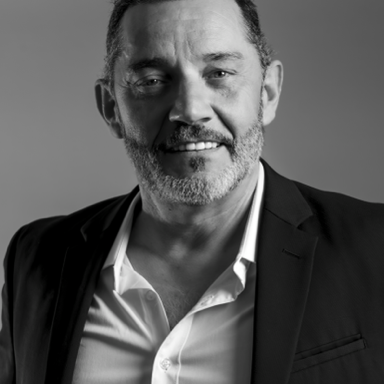
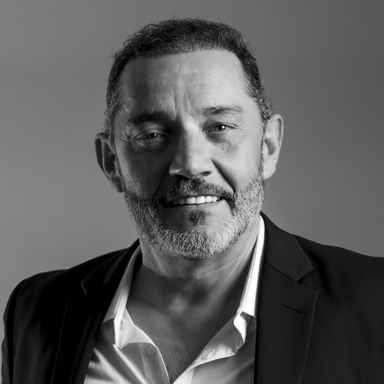
feat(sig): ajout Yann TDN + prénom en regular + photo Yann recadrée
- Nouvelle signature yann-tdn (Yann ROUXEL pour Tomber des Nues)
- Prénom passé de bold (800) à regular (400) sur toutes les signatures
- Photo Yann recadrée depuis Portrait Yann-5.jpg (crop haut)
- build.js: skip proprement les assets dont la source manque (dst conservé)

diff --git a/build.js b/build.js
@@ -63,6 +63,7 @@ const MEMBERS = [
   { id: 'sidonie',   brand: 'TDN', nom: 'Sidonie BRASSART', role: 'Assistante de projet',                    email: 'sidonie@tomberdesnues.com', tel: '+33 7 83 73 95 96', photoId: 'sidonie' },
   { id: 'alexandre', brand: 'PS',  nom: 'Alexandre BILLON', role: 'Directeur Associé',                       email: 'alexandre@pianoservice.fr', tel: '+33 6 80 44 73 52', photoId: 'alexandre' },
   { id: 'yann-ps',     brand: 'PS',  nom: 'Yann ROUXEL',      role: 'Directeur Général',                       email: 'yann@pianoservice.fr',      tel: '+33 6 27 42 78 20', photoId: 'yann' },
+  { id: 'yann-tdn',    brand: 'TDN', nom: 'Yann ROUXEL',      role: 'Directeur Général',                       email: 'yann@tomberdesnues.com',    tel: '+33 6 27 42 78 20', photoId: 'yann' },
   { id: 'justine-tdn', brand: 'TDN', nom: 'Justine',          role: 'Commerciale',                             email: 'justine@tomberdesnues.com', tel: '+33 6 11 48 94 37', photo: false },
   { id: 'justine-kp',  brand: 'KP',  nom: 'Justine',          role: 'Commerciale',                             email: 'justine@karreprod.com',     tel: '+33 6 11 48 94 37', photo: false },
   { id: 'justine-ps',  brand: 'PS',  nom: 'Justine',          role: 'Commerciale',                             email: 'justine@pianoservice.fr',   tel: '+33 6 11 48 94 37', photo: false }
@@ -99,6 +100,10 @@ async function buildPhotos() {
   for (const [id, num] of Object.entries(PHOTO_MAP)) {
     const src = path.join(SRC_DIR, `2025.12 Noe-l Karre-prod&Co-${num}.jpg`);
     const dst = path.join(ASSETS_DIR, `photo-${id}.png`);
+    if (!fs.existsSync(src)) {
+      if (fs.existsSync(dst)) { console.log(`  photo-${id}.png SKIP (source absente, dst conservé)`); continue; }
+      throw new Error(`Source manquante ET dst absent: ${src}`);
+    }
     await sharp(src)
       .rotate()
       .resize(SIZE, SIZE, { fit: 'cover', position: CROP_POSITION[id] || 'top' })
@@ -123,6 +128,16 @@ async function svgToPng(srcFile, dstFile, displayWidth) {
   const PAD = 14; // px de padding @1x sur chaque côté
   const innerWidth = Math.max(1, (displayWidth - PAD * 2) * 2);
   const srcPath = path.join(SRC_DIR, srcFile);
+
+  const dstPath = path.join(ASSETS_DIR, dstFile);
+  if (!fs.existsSync(srcPath)) {
+    if (fs.existsSync(dstPath)) {
+      const m = await sharp(dstPath).metadata();
+      console.log(`  ${dstFile} SKIP (source absente, dst conservé)`);
+      return { width: Math.round(m.width / 2), height: Math.round(m.height / 2) };
+    }
+    throw new Error(`Source manquante ET dst absent: ${srcPath}`);
+  }
 
   // Mesure de la hauteur intermédiaire pour verrouiller un PNG pair.
   // Sinon out.height impair → display height = round(h/2) → écart sub-pixel
@@ -159,26 +174,33 @@ async function buildLogos() {
 async function buildBadges() {
   const SIZE = 38;
   const dims = {};
-  // EcoVadis (carré)
-  await sharp(path.join(SRC_DIR, 'cert-ecovadis.svg'), { density: 600 })
-    .resize({ height: SIZE * 2, width: SIZE * 2, fit: 'contain', background: { r: 255, g: 255, b: 255, alpha: 0 } })
-    .png()
-    .toFile(path.join(ASSETS_DIR, 'cert-ecovadis.png'));
-  dims.ecovadis = { w: SIZE, h: SIZE };
 
-  // Label événement (JPG)
-  const labelOut = await sharp(path.join(SRC_DIR, 'Logo-Label-e1499678404115.jpg'))
-    .resize({ height: SIZE * 2 })
-    .toFormat('png')
-    .toFile(path.join(ASSETS_DIR, 'label-event.png'));
-  dims.label = { w: Math.round(labelOut.width / 2), h: SIZE };
+  async function badge(srcFile, dstFile, pipeline, fixedW = null) {
+    const srcPath = path.join(SRC_DIR, srcFile);
+    const dstPath = path.join(ASSETS_DIR, dstFile);
+    if (!fs.existsSync(srcPath)) {
+      if (fs.existsSync(dstPath)) {
+        const m = await sharp(dstPath).metadata();
+        console.log(`  ${dstFile} SKIP (source absente, dst conservé)`);
+        return { w: fixedW || Math.round(m.width / 2), h: SIZE };
+      }
+      throw new Error(`Source manquante ET dst absent: ${srcPath}`);
+    }
+    const out = await pipeline(srcPath, dstPath);
+    return { w: fixedW || Math.round(out.width / 2), h: SIZE };
+  }
 
-  // Synpase (PNG)
-  const synOut = await sharp(path.join(SRC_DIR, 'logo-synpase.png'))
-    .resize({ height: SIZE * 2 })
-    .png()
-    .toFile(path.join(ASSETS_DIR, 'logo-synpase.png'));
-  dims.synpase = { w: Math.round(synOut.width / 2), h: SIZE };
+  dims.ecovadis = await badge('cert-ecovadis.svg', 'cert-ecovadis.png',
+    (src, dst) => sharp(src, { density: 600 })
+      .resize({ height: SIZE * 2, width: SIZE * 2, fit: 'contain', background: { r: 255, g: 255, b: 255, alpha: 0 } })
+      .png().toFile(dst),
+    SIZE);
+
+  dims.label = await badge('Logo-Label-e1499678404115.jpg', 'label-event.png',
+    (src, dst) => sharp(src).resize({ height: SIZE * 2 }).toFormat('png').toFile(dst));
+
+  dims.synpase = await badge('logo-synpase.png', 'logo-synpase.png',
+    (src, dst) => sharp(src).resize({ height: SIZE * 2 }).png().toFile(dst));
 
   console.log('  badges PNG OK', dims);
   return dims;
@@ -255,7 +277,7 @@ function buildEditorial(m, brand, logoDims, badges) {
   <tr>
     ${photoBlock}
     <td valign="top" ${WHITE_CELL} style="padding:0 30px 0 0;${WHITE_STYLE}">
-      <div style="font-family:${titleFamily};font-size:26px;line-height:1.1;color:#0a0a0a;font-weight:800;letter-spacing:0.01em;">${nameHtml}</div>
+      <div style="font-family:${titleFamily};font-size:26px;line-height:1.1;color:#0a0a0a;font-weight:400;letter-spacing:0.01em;">${nameHtml}</div>
       <div style="font-family:Helvetica,Arial,sans-serif;font-size:11px;color:#4d4d4c;margin-top:10px;letter-spacing:0.22em;text-transform:uppercase;">${m.role}</div>
       <div style="height:18px;line-height:18px;font-size:0;">&nbsp;</div>
       <div style="font-size:13px;line-height:1.7;color:#1a1a1a;">

diff --git a/docs/signatures/yann-tdn.html b/docs/signatures/yann-tdn.html
@@ -5,7 +5,7 @@
 <meta name="viewport" content="width=device-width,initial-scale=1">
 <meta name="color-scheme" content="light only">
 <meta name="supported-color-schemes" content="light only">
-<title>Sonia ROUXEL — Tomber des Nues</title>
+<title>Yann ROUXEL — Tomber des Nues</title>
 <style>
   :root { color-scheme: light only; supported-color-schemes: light only; }
   body { color-scheme: light only; }
@@ -15,14 +15,14 @@
 <table cellpadding="0" cellspacing="0" border="0" role="presentation" width="620" bgcolor="#ffffff" style="border-collapse:collapse;width:620px;min-width:620px;margin-top:24px;background-color:#ffffff;color-scheme:light only;supported-color-schemes:light only;">
   <tr><td bgcolor="#ffffff" style="padding:20px 0 0;border-top:1px solid #ece6e0;background-color:#ffffff;"><table cellpadding="0" cellspacing="0" border="0" role="presentation" width="620" bgcolor="#ffffff" style="border-collapse:collapse;font-family:Helvetica,Arial,sans-serif;color:#1a1a1a;font-size:14px;line-height:1.45;width:620px;min-width:620px;table-layout:fixed;background-color:#ffffff;color-scheme:light only;supported-color-schemes:light only;">
   <tr>
-    <td valign="top" bgcolor="#ffffff" style="padding:0 26px 0 0;width:108px;min-width:108px;background-color:#ffffff;"><img src="https://morganrxl.github.io/signatures/assets/photo-sonia.png" width="96" height="96" alt="Sonia ROUXEL" style="display:block;border:0;outline:0;text-decoration:none;width:96px !important;height:96px !important;min-width:96px;max-width:96px;min-height:96px;max-height:96px;border-radius:96px;" /></td>
+    <td valign="top" bgcolor="#ffffff" style="padding:0 26px 0 0;width:108px;min-width:108px;background-color:#ffffff;"><img src="https://morganrxl.github.io/signatures/assets/photo-yann.png" width="96" height="96" alt="Yann ROUXEL" style="display:block;border:0;outline:0;text-decoration:none;width:96px !important;height:96px !important;min-width:96px;max-width:96px;min-height:96px;max-height:96px;border-radius:96px;" /></td>
     <td valign="top" bgcolor="#ffffff" style="padding:0 30px 0 0;background-color:#ffffff;">
-      <div style="font-family:'Avenir Next','Avenir',Helvetica,Arial,sans-serif;font-size:26px;line-height:1.1;color:#0a0a0a;font-weight:400;letter-spacing:0.01em;">Sonia <span style="font-weight:300;color:#1a1a1a;">ROUXEL</span></div>
-      <div style="font-family:Helvetica,Arial,sans-serif;font-size:11px;color:#4d4d4c;margin-top:10px;letter-spacing:0.22em;text-transform:uppercase;">Event Designer</div>
+      <div style="font-family:'Avenir Next','Avenir',Helvetica,Arial,sans-serif;font-size:26px;line-height:1.1;color:#0a0a0a;font-weight:400;letter-spacing:0.01em;">Yann <span style="font-weight:300;color:#1a1a1a;">ROUXEL</span></div>
+      <div style="font-family:Helvetica,Arial,sans-serif;font-size:11px;color:#4d4d4c;margin-top:10px;letter-spacing:0.22em;text-transform:uppercase;">Directeur Général</div>
       <div style="height:18px;line-height:18px;font-size:0;">&nbsp;</div>
       <div style="font-size:13px;line-height:1.7;color:#1a1a1a;">
-        <a href="mailto:sonia@tomberdesnues.com" style="color:#1a1a1a;text-decoration:none;border-bottom:1px solid #F6C9D0;">sonia@tomberdesnues.com</a><br/>
-        <a href="tel:+33603430776" style="color:#1a1a1a;text-decoration:none;">+33 6 03 43 07 76</a><br/>
+        <a href="mailto:yann@tomberdesnues.com" style="color:#1a1a1a;text-decoration:none;border-bottom:1px solid #F6C9D0;">yann@tomberdesnues.com</a><br/>
+        <a href="tel:+33627427820" style="color:#1a1a1a;text-decoration:none;">+33 6 27 42 78 20</a><br/>
         <a href="https://www.tomberdesnues.com" style="color:#1a1a1a;text-decoration:none;font-weight:600;">tomberdesnues.com</a> · <a href="https://www.linkedin.com/company/tomber-des-nues" style="color:#1a1a1a;text-decoration:none;font-weight:600;">LinkedIn</a>
       </div>
     </td>

diff --git a/docs/index.html b/docs/index.html
@@ -132,6 +132,16 @@
         <a href="signatures/sidonie.html" target="_blank" style="font-size:12px;color:#999;text-decoration:none;border-bottom:1px dotted #ccc;">aperçu</a>
       </li>
       <li style="display:flex;align-items:center;gap:16px;padding:14px 0;border-bottom:1px solid #ece6e0;">
+        <img src="assets/photo-yann.png" width="48" height="48" style="border-radius:48px;display:block;" alt="">
+        <div style="flex:1;">
+          <div style="font-weight:600;font-size:15px;color:#1a1a1a;">Yann ROUXEL</div>
+          <div style="font-size:12px;color:#666;letter-spacing:0.06em;text-transform:uppercase;margin-top:2px;">Directeur Général</div>
+          <div style="font-size:12px;color:#999;margin-top:2px;">yann@tomberdesnues.com</div>
+        </div>
+        <button data-id="yann-tdn" data-name="Yann ROUXEL" style="background:#C06D80;color:#fff;border:0;padding:10px 18px;border-radius:6px;font-weight:600;cursor:pointer;font-size:13px;letter-spacing:0.02em;">Copier la signature</button>
+        <a href="signatures/yann-tdn.html" target="_blank" style="font-size:12px;color:#999;text-decoration:none;border-bottom:1px dotted #ccc;">aperçu</a>
+      </li>
+      <li style="display:flex;align-items:center;gap:16px;padding:14px 0;border-bottom:1px solid #ece6e0;">
         <div style="width:48px;height:48px;border-radius:48px;background:#C06D80;color:#fff;display:flex;align-items:center;justify-content:center;font-weight:600;font-size:18px;flex-shrink:0;">J</div>
         <div style="flex:1;">
           <div style="font-weight:600;font-size:15px;color:#1a1a1a;">Justine</div>

diff --git a/docs/signatures/anne.html b/docs/signatures/anne.html
@@ -17,7 +17,7 @@
   <tr>
     <td valign="top" bgcolor="#ffffff" style="padding:0 26px 0 0;width:108px;min-width:108px;background-color:#ffffff;"><img src="https://morganrxl.github.io/signatures/assets/photo-anne.png" width="96" height="96" alt="Anne JOUANNE" style="display:block;border:0;outline:0;text-decoration:none;width:96px !important;height:96px !important;min-width:96px;max-width:96px;min-height:96px;max-height:96px;border-radius:96px;" /></td>
     <td valign="top" bgcolor="#ffffff" style="padding:0 30px 0 0;background-color:#ffffff;">
-      <div style="font-family:'Avenir Next','Avenir',Helvetica,Arial,sans-serif;font-size:26px;line-height:1.1;color:#0a0a0a;font-weight:800;letter-spacing:0.01em;">Anne <span style="font-weight:300;color:#1a1a1a;">JOUANNE</span></div>
+      <div style="font-family:'Avenir Next','Avenir',Helvetica,Arial,sans-serif;font-size:26px;line-height:1.1;color:#0a0a0a;font-weight:400;letter-spacing:0.01em;">Anne <span style="font-weight:300;color:#1a1a1a;">JOUANNE</span></div>
       <div style="font-family:Helvetica,Arial,sans-serif;font-size:11px;color:#4d4d4c;margin-top:10px;letter-spacing:0.22em;text-transform:uppercase;">Directrice Administrative et Financière</div>
       <div style="height:18px;line-height:18px;font-size:0;">&nbsp;</div>
       <div style="font-size:13px;line-height:1.7;color:#1a1a1a;">

diff --git a/docs/signatures/veronique.html b/docs/signatures/veronique.html
@@ -17,7 +17,7 @@
   <tr>
     <td valign="top" bgcolor="#ffffff" style="padding:0 26px 0 0;width:108px;min-width:108px;background-color:#ffffff;"><img src="https://morganrxl.github.io/signatures/assets/photo-veronique.png" width="96" height="96" alt="Véronique DURAND" style="display:block;border:0;outline:0;text-decoration:none;width:96px !important;height:96px !important;min-width:96px;max-width:96px;min-height:96px;max-height:96px;border-radius:96px;" /></td>
     <td valign="top" bgcolor="#ffffff" style="padding:0 30px 0 0;background-color:#ffffff;">
-      <div style="font-family:'Avenir Next','Avenir',Helvetica,Arial,sans-serif;font-size:26px;line-height:1.1;color:#0a0a0a;font-weight:800;letter-spacing:0.01em;">Véronique <span style="font-weight:300;color:#1a1a1a;">DURAND</span></div>
+      <div style="font-family:'Avenir Next','Avenir',Helvetica,Arial,sans-serif;font-size:26px;line-height:1.1;color:#0a0a0a;font-weight:400;letter-spacing:0.01em;">Véronique <span style="font-weight:300;color:#1a1a1a;">DURAND</span></div>
       <div style="font-family:Helvetica,Arial,sans-serif;font-size:11px;color:#4d4d4c;margin-top:10px;letter-spacing:0.22em;text-transform:uppercase;">Assistante de projet</div>
       <div style="height:18px;line-height:18px;font-size:0;">&nbsp;</div>
       <div style="font-size:13px;line-height:1.7;color:#1a1a1a;">

diff --git a/docs/signatures/alexandre.html b/docs/signatures/alexandre.html
@@ -17,7 +17,7 @@
   <tr>
     <td valign="top" bgcolor="#ffffff" style="padding:0 26px 0 0;width:108px;min-width:108px;background-color:#ffffff;"><img src="https://morganrxl.github.io/signatures/assets/photo-alexandre.png" width="96" height="96" alt="Alexandre BILLON" style="display:block;border:0;outline:0;text-decoration:none;width:96px !important;height:96px !important;min-width:96px;max-width:96px;min-height:96px;max-height:96px;border-radius:96px;" /></td>
     <td valign="top" bgcolor="#ffffff" style="padding:0 30px 0 0;background-color:#ffffff;">
-      <div style="font-family:'Avenir Next','Avenir',Helvetica,Arial,sans-serif;font-size:26px;line-height:1.1;color:#0a0a0a;font-weight:800;letter-spacing:0.01em;">Alexandre <span style="font-weight:300;color:#1a1a1a;">BILLON</span></div>
+      <div style="font-family:'Avenir Next','Avenir',Helvetica,Arial,sans-serif;font-size:26px;line-height:1.1;color:#0a0a0a;font-weight:400;letter-spacing:0.01em;">Alexandre <span style="font-weight:300;color:#1a1a1a;">BILLON</span></div>
       <div style="font-family:Helvetica,Arial,sans-serif;font-size:11px;color:#4d4d4c;margin-top:10px;letter-spacing:0.22em;text-transform:uppercase;">Directeur Associé</div>
       <div style="height:18px;line-height:18px;font-size:0;">&nbsp;</div>
       <div style="font-size:13px;line-height:1.7;color:#1a1a1a;">

diff --git a/docs/signatures/sidonie.html b/docs/signatures/sidonie.html
@@ -17,7 +17,7 @@
   <tr>
     <td valign="top" bgcolor="#ffffff" style="padding:0 26px 0 0;width:108px;min-width:108px;background-color:#ffffff;"><img src="https://morganrxl.github.io/signatures/assets/photo-sidonie.png" width="96" height="96" alt="Sidonie BRASSART" style="display:block;border:0;outline:0;text-decoration:none;width:96px !important;height:96px !important;min-width:96px;max-width:96px;min-height:96px;max-height:96px;border-radius:96px;" /></td>
     <td valign="top" bgcolor="#ffffff" style="padding:0 30px 0 0;background-color:#ffffff;">
-      <div style="font-family:'Avenir Next','Avenir',Helvetica,Arial,sans-serif;font-size:26px;line-height:1.1;color:#0a0a0a;font-weight:800;letter-spacing:0.01em;">Sidonie <span style="font-weight:300;color:#1a1a1a;">BRASSART</span></div>
+      <div style="font-family:'Avenir Next','Avenir',Helvetica,Arial,sans-serif;font-size:26px;line-height:1.1;color:#0a0a0a;font-weight:400;letter-spacing:0.01em;">Sidonie <span style="font-weight:300;color:#1a1a1a;">BRASSART</span></div>
       <div style="font-family:Helvetica,Arial,sans-serif;font-size:11px;color:#4d4d4c;margin-top:10px;letter-spacing:0.22em;text-transform:uppercase;">Assistante de projet</div>
       <div style="height:18px;line-height:18px;font-size:0;">&nbsp;</div>
       <div style="font-size:13px;line-height:1.7;color:#1a1a1a;">

diff --git a/docs/signatures/jacques.html b/docs/signatures/jacques.html
@@ -17,7 +17,7 @@
   <tr>
     <td valign="top" bgcolor="#ffffff" style="padding:0 26px 0 0;width:108px;min-width:108px;background-color:#ffffff;"><img src="https://morganrxl.github.io/signatures/assets/photo-jacques.png" width="96" height="96" alt="Jacques KLOPOCKI" style="display:block;border:0;outline:0;text-decoration:none;width:96px !important;height:96px !important;min-width:96px;max-width:96px;min-height:96px;max-height:96px;border-radius:96px;" /></td>
     <td valign="top" bgcolor="#ffffff" style="padding:0 30px 0 0;background-color:#ffffff;">
-      <div style="font-family:'Avenir Next','Avenir',Helvetica,Arial,sans-serif;font-size:26px;line-height:1.1;color:#0a0a0a;font-weight:800;letter-spacing:0.01em;">Jacques <span style="font-weight:300;color:#1a1a1a;">KLOPOCKI</span></div>
+      <div style="font-family:'Avenir Next','Avenir',Helvetica,Arial,sans-serif;font-size:26px;line-height:1.1;color:#0a0a0a;font-weight:400;letter-spacing:0.01em;">Jacques <span style="font-weight:300;color:#1a1a1a;">KLOPOCKI</span></div>
       <div style="font-family:Helvetica,Arial,sans-serif;font-size:11px;color:#4d4d4c;margin-top:10px;letter-spacing:0.22em;text-transform:uppercase;">Directeur Associé</div>
       <div style="height:18px;line-height:18px;font-size:0;">&nbsp;</div>
       <div style="font-size:13px;line-height:1.7;color:#1a1a1a;">

diff --git a/docs/signatures/clement.html b/docs/signatures/clement.html
@@ -17,7 +17,7 @@
   <tr>
     <td valign="top" bgcolor="#ffffff" style="padding:0 26px 0 0;width:108px;min-width:108px;background-color:#ffffff;"><img src="https://morganrxl.github.io/signatures/assets/photo-clement.png" width="96" height="96" alt="Clément LE FUR" style="display:block;border:0;outline:0;text-decoration:none;width:96px !important;height:96px !important;min-width:96px;max-width:96px;min-height:96px;max-height:96px;border-radius:96px;" /></td>
     <td valign="top" bgcolor="#ffffff" style="padding:0 30px 0 0;background-color:#ffffff;">
-      <div style="font-family:'Avenir Next','Avenir',Helvetica,Arial,sans-serif;font-size:26px;line-height:1.1;color:#0a0a0a;font-weight:800;letter-spacing:0.01em;">Clément <span style="font-weight:300;color:#1a1a1a;">LE FUR</span></div>
+      <div style="font-family:'Avenir Next','Avenir',Helvetica,Arial,sans-serif;font-size:26px;line-height:1.1;color:#0a0a0a;font-weight:400;letter-spacing:0.01em;">Clément <span style="font-weight:300;color:#1a1a1a;">LE FUR</span></div>
       <div style="font-family:Helvetica,Arial,sans-serif;font-size:11px;color:#4d4d4c;margin-top:10px;letter-spacing:0.22em;text-transform:uppercase;">Directeur Technique</div>
       <div style="height:18px;line-height:18px;font-size:0;">&nbsp;</div>
       <div style="font-size:13px;line-height:1.7;color:#1a1a1a;">

diff --git a/docs/signatures/florian.html b/docs/signatures/florian.html
@@ -17,7 +17,7 @@
   <tr>
     <td valign="top" bgcolor="#ffffff" style="padding:0 26px 0 0;width:108px;min-width:108px;background-color:#ffffff;"><img src="https://morganrxl.github.io/signatures/assets/photo-florian.png" width="96" height="96" alt="Florian LE FUR" style="display:block;border:0;outline:0;text-decoration:none;width:96px !important;height:96px !important;min-width:96px;max-width:96px;min-height:96px;max-height:96px;border-radius:96px;" /></td>
     <td valign="top" bgcolor="#ffffff" style="padding:0 30px 0 0;background-color:#ffffff;">
-      <div style="font-family:'Avenir Next','Avenir',Helvetica,Arial,sans-serif;font-size:26px;line-height:1.1;color:#0a0a0a;font-weight:800;letter-spacing:0.01em;">Florian <span style="font-weight:300;color:#1a1a1a;">LE FUR</span></div>
+      <div style="font-family:'Avenir Next','Avenir',Helvetica,Arial,sans-serif;font-size:26px;line-height:1.1;color:#0a0a0a;font-weight:400;letter-spacing:0.01em;">Florian <span style="font-weight:300;color:#1a1a1a;">LE FUR</span></div>
       <div style="font-family:Helvetica,Arial,sans-serif;font-size:11px;color:#4d4d4c;margin-top:10px;letter-spacing:0.22em;text-transform:uppercase;">Directeur Technique</div>
       <div style="height:18px;line-height:18px;font-size:0;">&nbsp;</div>
       <div style="font-size:13px;line-height:1.7;color:#1a1a1a;">

diff --git a/docs/signatures/eulalie.html b/docs/signatures/eulalie.html
@@ -17,7 +17,7 @@
   <tr>
     <td valign="top" bgcolor="#ffffff" style="padding:0 26px 0 0;width:108px;min-width:108px;background-color:#ffffff;"><img src="https://morganrxl.github.io/signatures/assets/photo-eulalie.png" width="96" height="96" alt="Eulalie BEYSSEN" style="display:block;border:0;outline:0;text-decoration:none;width:96px !important;height:96px !important;min-width:96px;max-width:96px;min-height:96px;max-height:96px;border-radius:96px;" /></td>
     <td valign="top" bgcolor="#ffffff" style="padding:0 30px 0 0;background-color:#ffffff;">
-      <div style="font-family:'Avenir Next','Avenir',Helvetica,Arial,sans-serif;font-size:26px;line-height:1.1;color:#0a0a0a;font-weight:800;letter-spacing:0.01em;">Eulalie <span style="font-weight:300;color:#1a1a1a;">BEYSSEN</span></div>
+      <div style="font-family:'Avenir Next','Avenir',Helvetica,Arial,sans-serif;font-size:26px;line-height:1.1;color:#0a0a0a;font-weight:400;letter-spacing:0.01em;">Eulalie <span style="font-weight:300;color:#1a1a1a;">BEYSSEN</span></div>
       <div style="font-family:Helvetica,Arial,sans-serif;font-size:11px;color:#4d4d4c;margin-top:10px;letter-spacing:0.22em;text-transform:uppercase;">Event Designer</div>
       <div style="height:18px;line-height:18px;font-size:0;">&nbsp;</div>
       <div style="font-size:13px;line-height:1.7;color:#1a1a1a;">

diff --git a/docs/signatures/yann-ps.html b/docs/signatures/yann-ps.html
@@ -17,7 +17,7 @@
   <tr>
     <td valign="top" bgcolor="#ffffff" style="padding:0 26px 0 0;width:108px;min-width:108px;background-color:#ffffff;"><img src="https://morganrxl.github.io/signatures/assets/photo-yann.png" width="96" height="96" alt="Yann ROUXEL" style="display:block;border:0;outline:0;text-decoration:none;width:96px !important;height:96px !important;min-width:96px;max-width:96px;min-height:96px;max-height:96px;border-radius:96px;" /></td>
     <td valign="top" bgcolor="#ffffff" style="padding:0 30px 0 0;background-color:#ffffff;">
-      <div style="font-family:'Avenir Next','Avenir',Helvetica,Arial,sans-serif;font-size:26px;line-height:1.1;color:#0a0a0a;font-weight:800;letter-spacing:0.01em;">Yann <span style="font-weight:300;color:#1a1a1a;">ROUXEL</span></div>
+      <div style="font-family:'Avenir Next','Avenir',Helvetica,Arial,sans-serif;font-size:26px;line-height:1.1;color:#0a0a0a;font-weight:400;letter-spacing:0.01em;">Yann <span style="font-weight:300;color:#1a1a1a;">ROUXEL</span></div>
       <div style="font-family:Helvetica,Arial,sans-serif;font-size:11px;color:#4d4d4c;margin-top:10px;letter-spacing:0.22em;text-transform:uppercase;">Directeur Général</div>
       <div style="height:18px;line-height:18px;font-size:0;">&nbsp;</div>
       <div style="font-size:13px;line-height:1.7;color:#1a1a1a;">
